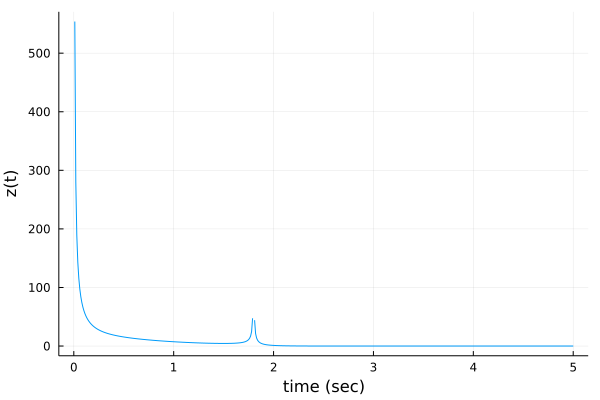
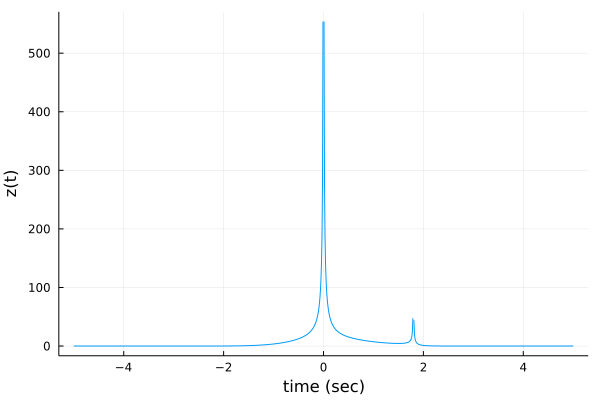
added LTVDoppler example B

diff --git a/docs/src/modelingLTV Doppler/modelLTVDoppler.md b/docs/src/modelingLTV Doppler/modelLTVDoppler.md
@@ -4,7 +4,7 @@ In order to observe the Doppler effect, we consider a time-varying receiver at
 position $\mathbf{p}_\mathrm{r}(t)$,
 a source at position $\mathbf{p}_\mathrm{s}$ and a reflector at an arbitrary position $\bm{\xi}$.
 
-The LTI impulse response from $\mathbf{p}_\mathrm{s}(t)$ to  $\bm{\xi}$ is given by
+The LTI impulse response from $\mathbf{p}_\mathrm{s}$ to  $\bm{\xi}$ is given by
 
 $h(\bm{\xi},t;\,{\mathbf{p}_\mathrm{s}}) = \mathrm{A}\left(\frac{\|\bm{\xi}-\mathbf{p}_\mathrm{s}\|}
 {\mathrm{c}}\right) \delta\left(t-\frac{\|\bm{\xi}-\mathbf{p}_\mathrm{s}\|}{\mathrm{c}}\right).$
@@ -32,7 +32,32 @@ q = LTIsourceO(𝐩ₛ, p)
 α₀ = 0.7; 𝛏₀ = [1.8,0.0]
 r = pointReflector(𝛏₀,α₀,q)
 z = LTVreceiverO([r,q],𝐩ᵣ)
-t = collect(0.0:0.01:5.0)
+t = collect(-5.0:0.01:5.0)
 plot(t,z(t), xlab="time (sec)", ylab="z(t)", legend=:false)
 ```
 ![](https://raw.githubusercontent.com/NMSU-ISA/LTVsystems/main/docs/src/assets/LTVreceiverDoppler_signalA.png)
+
+## Scenario B
+
+### Scenario Assumptions
+
+  * single stationary omnidirectional source
+  * single omnidirectional receiver moving with a constant speed
+  * single stationary ideal point reflector
+  * the source emits a sinusoidal signal
+
+```julia
+using LTVsystems
+using Plots
+𝐩ₛ = [0.0, 0.0]
+𝐩ᵣ(t) = [0.0, 0.0] + [1.0, 0.0]*t
+p(t) = cos(10.0π*t)
+q = LTIsourceO(𝐩ₛ, p)
+α₀ = 0.7; 𝛏₀ = [1.8,0.0]
+r = pointReflector(𝛏₀,α₀,q)
+z = LTVreceiverO([r,q],𝐩ᵣ)
+t = collect(-5.0:0.01:5.0)
+plot(t,z(t), xlab="time (sec)", ylab="z(t)", legend=:false)
+
+```
+  ![](https://raw.githubusercontent.com/NMSU-ISA/LTVsystems/main/docs/src/assets/LTVreceiverDoppler_signalB.png)
